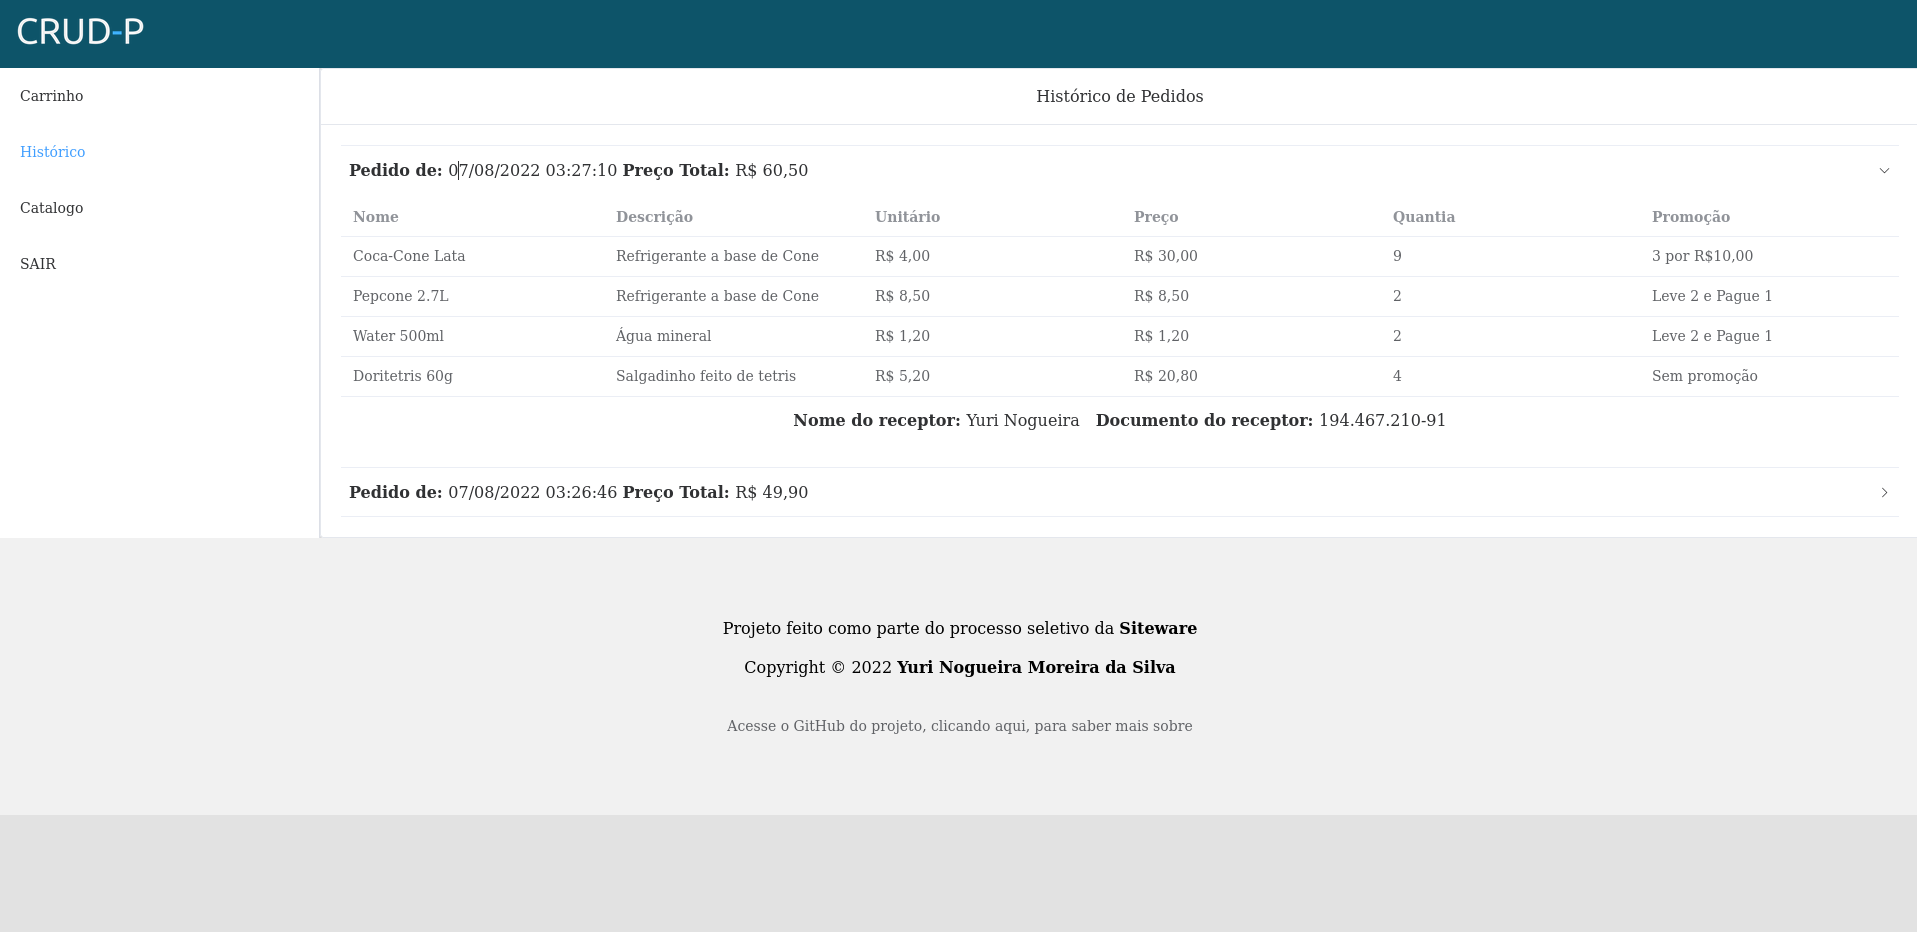
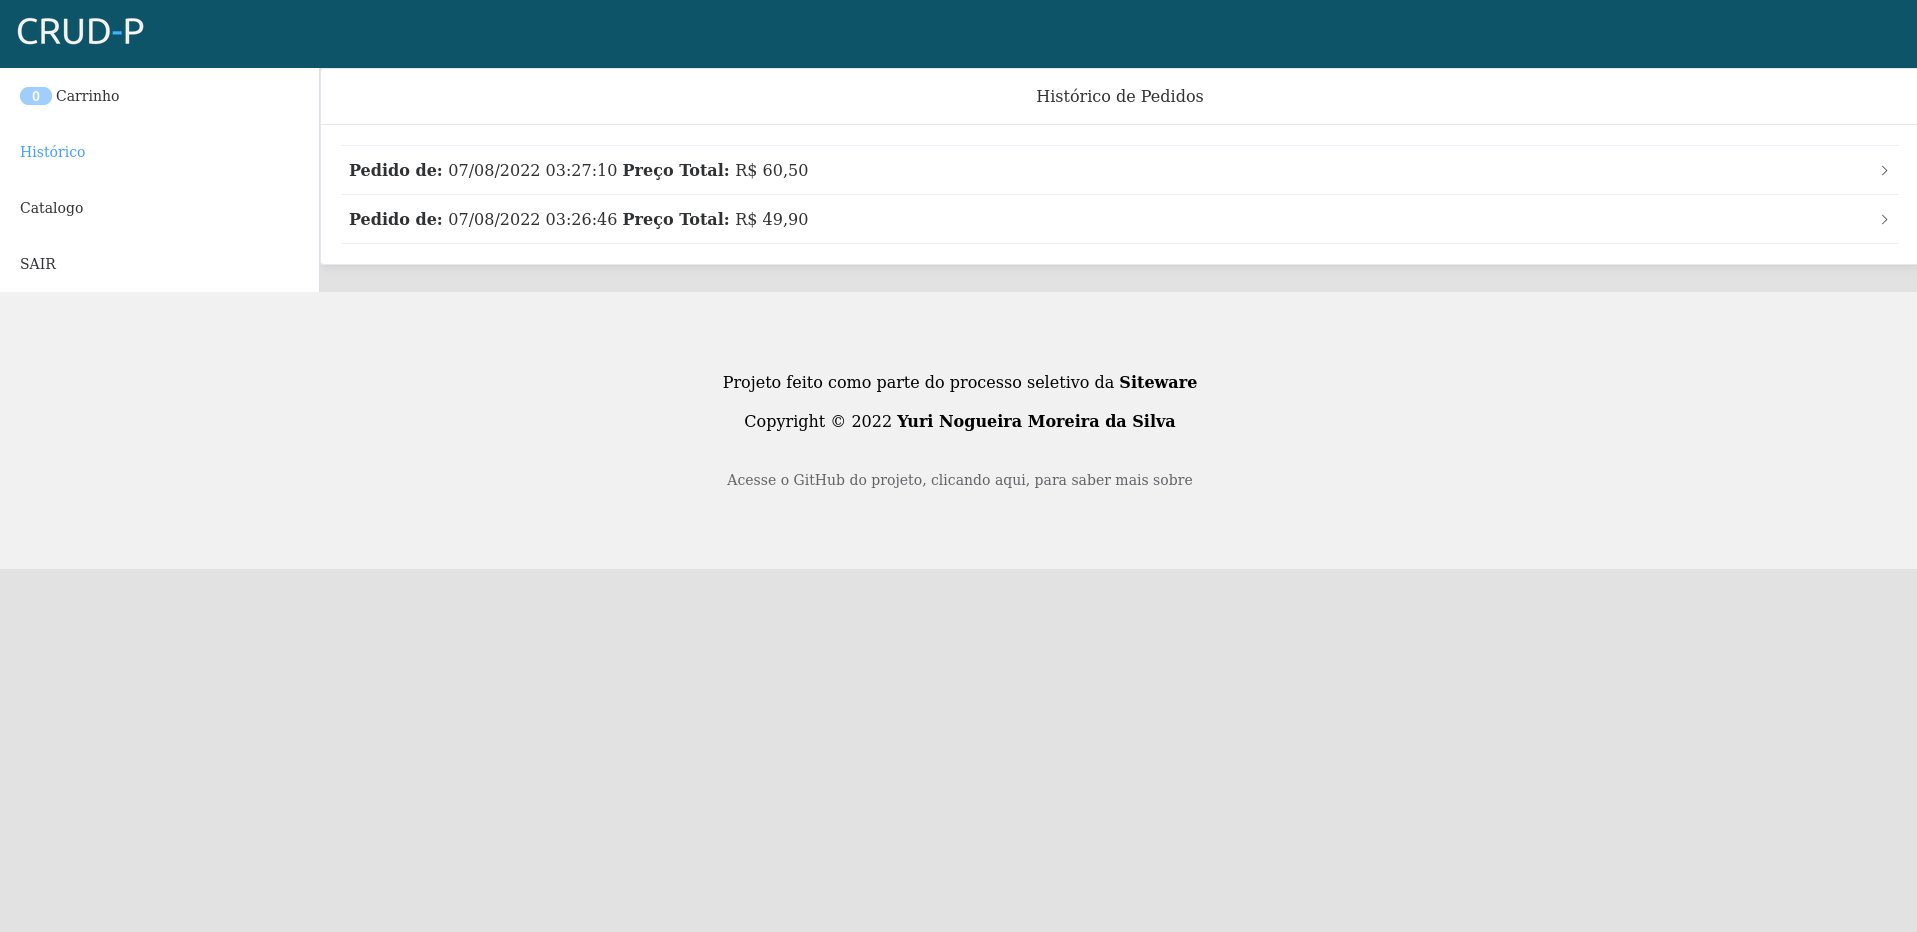
add cart number

diff --git a/vue/src/views/HomeView.vue b/vue/src/views/HomeView.vue
@@ -6,7 +6,11 @@
         mode="vertical"
         @select="handleSelect"
       >
-        <el-menu-item index="0">Carrinho</el-menu-item>
+        <el-menu-item index="0">
+          <el-button class="cart-number" disabled round type="primary">
+            {{ cartSize }} </el-button
+          >Carrinho
+        </el-menu-item>
         <el-menu-item index="1">Histórico</el-menu-item>
         <el-menu-item index="2">Catalogo</el-menu-item>
         <el-menu-item v-if="isAdmin" index="3">Administração</el-menu-item>
@@ -44,9 +48,25 @@ export default {
     return {
       activeIndex: ref("0"),
       components: [true, false, false, false],
+      cartSizeD: 0,
+      timer: null,
       userDTO: {},
       client: {},
     };
+  },
+
+  mounted() {
+    this.timer = setInterval(async () => {
+      this.cartSizeD = 0;
+      const actualCart = JSON.parse(localStorage.getItem("actualCart")) || {};
+      for (let key in actualCart) {
+        this.cartSizeD += actualCart[key].amount;
+      }
+    }, 500);
+  },
+
+  beforeUnmount() {
+    clearInterval(this.timer);
   },
 
   computed: {
@@ -55,6 +75,10 @@ export default {
         return this.userDTO.roles.includes("ADMIN");
       }
       return false;
+    },
+
+    cartSize() {
+      return this.cartSizeD;
     },
 
     cart() {
@@ -130,6 +154,11 @@ export default {
 </script>
 
 <style scoped>
+.cart-number {
+  width: 8px;
+  margin-right: 4px;
+  height: 16px;
+}
 .el-menu {
   height: 100%;
 }
